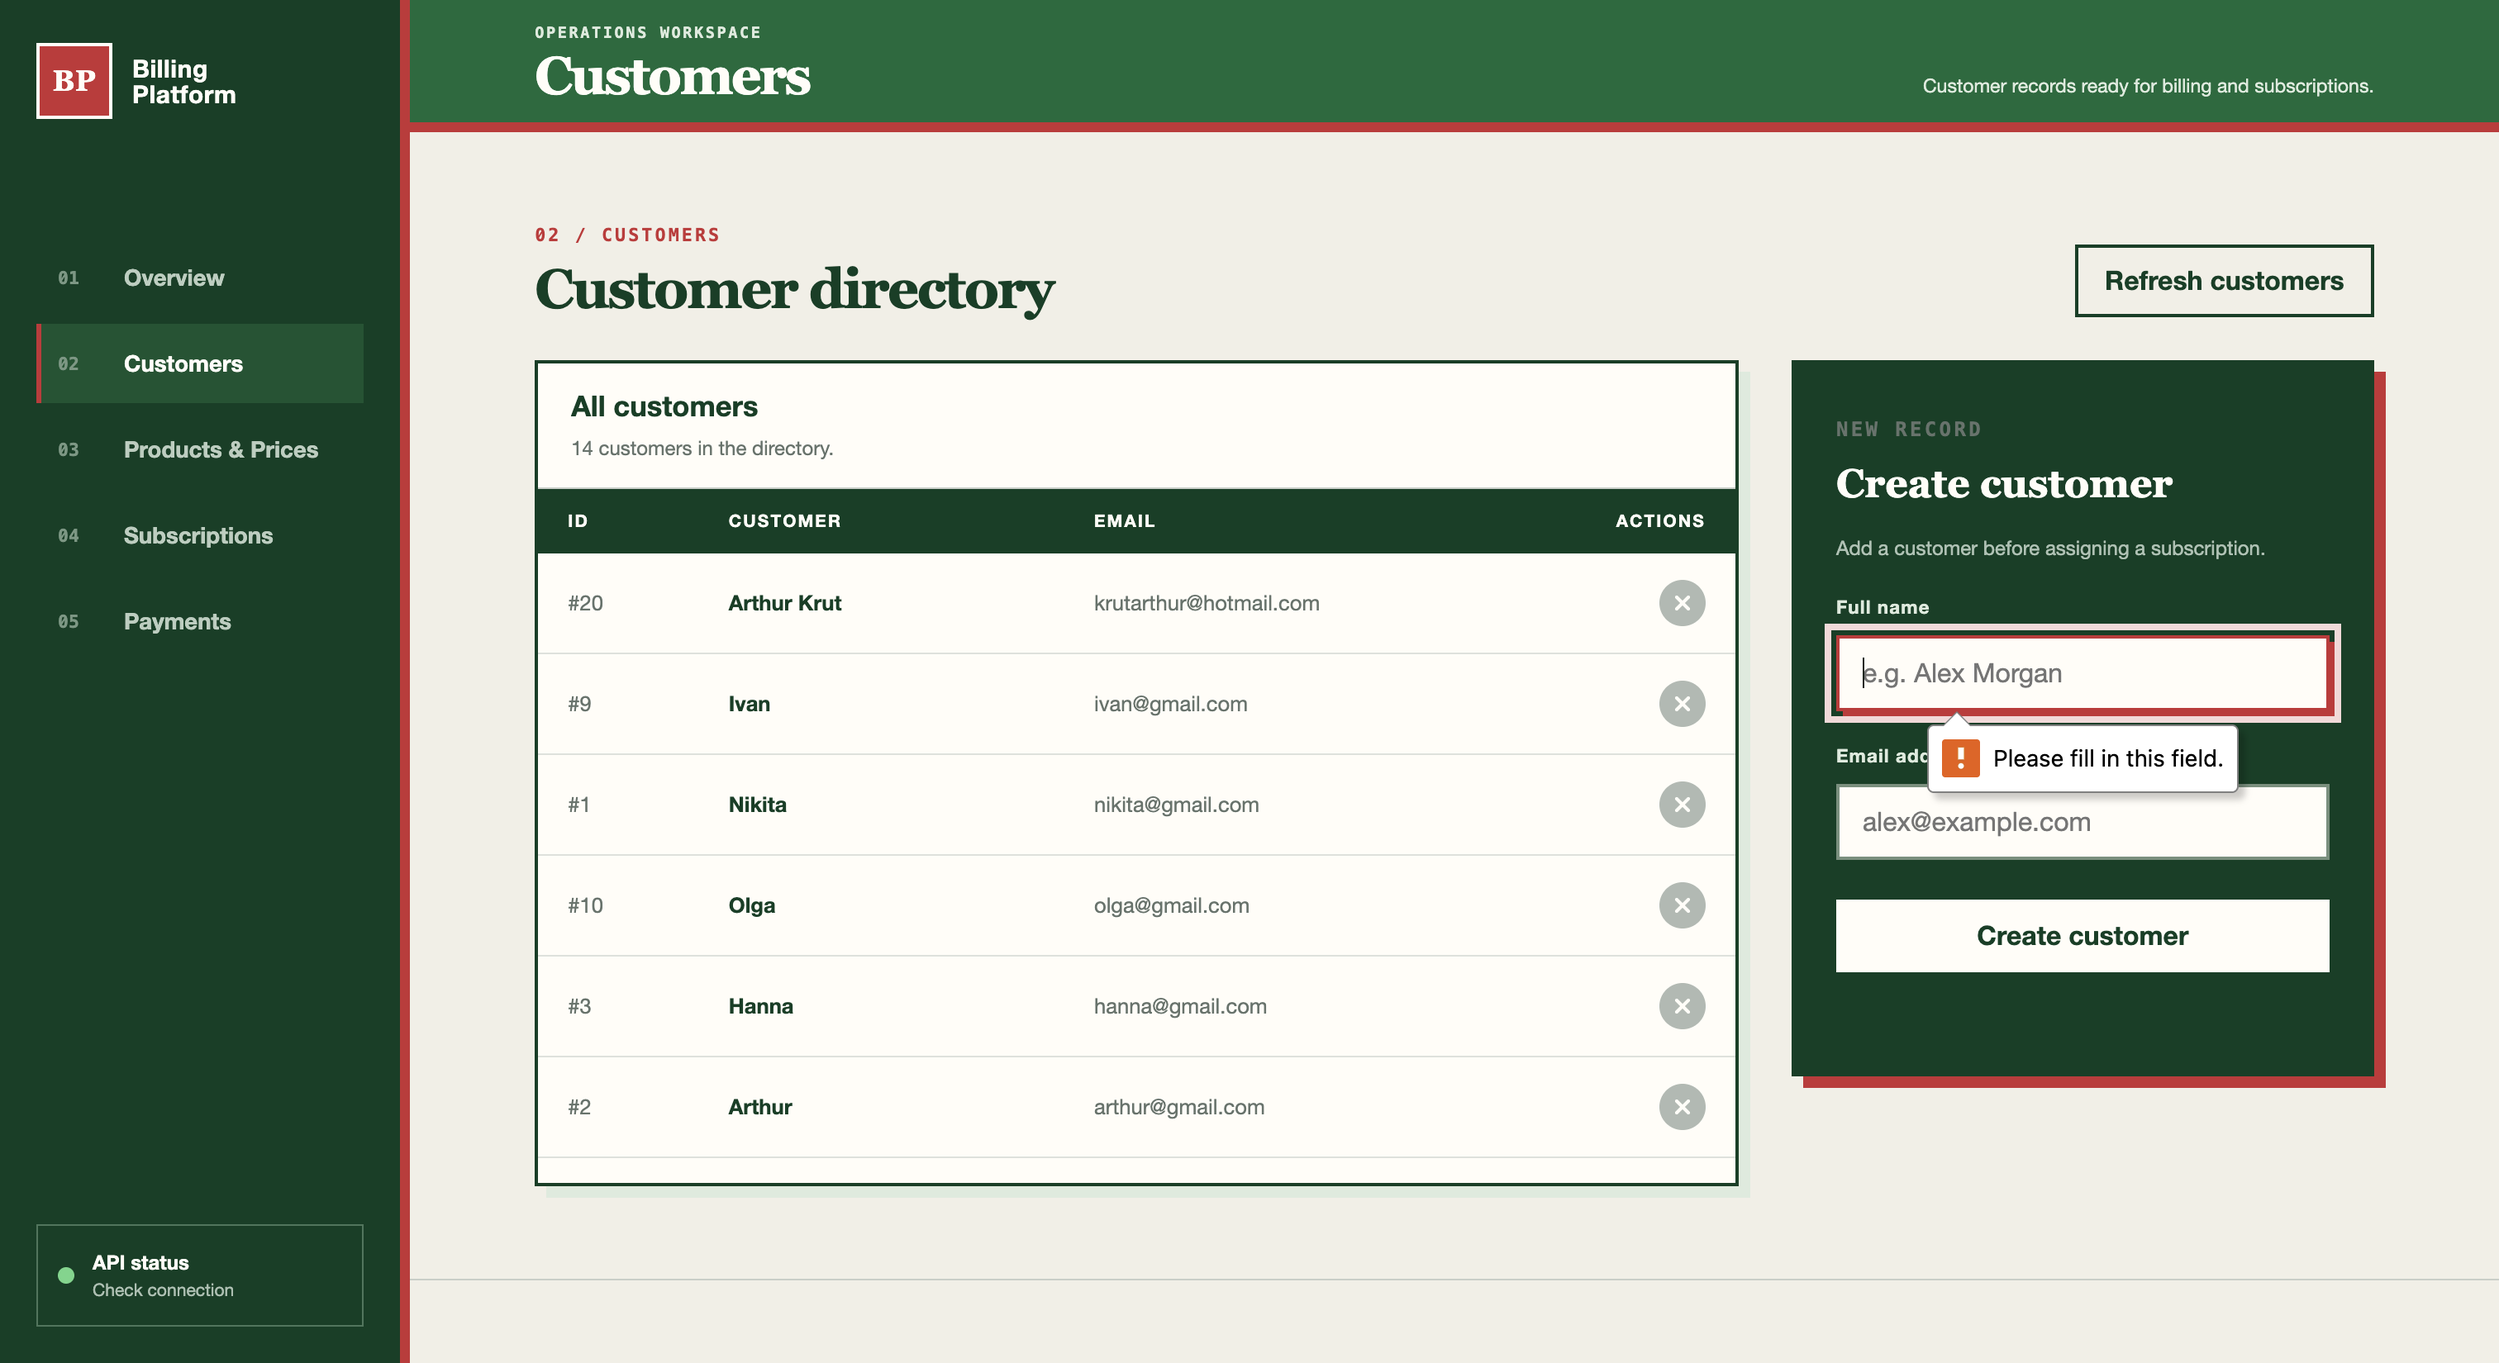
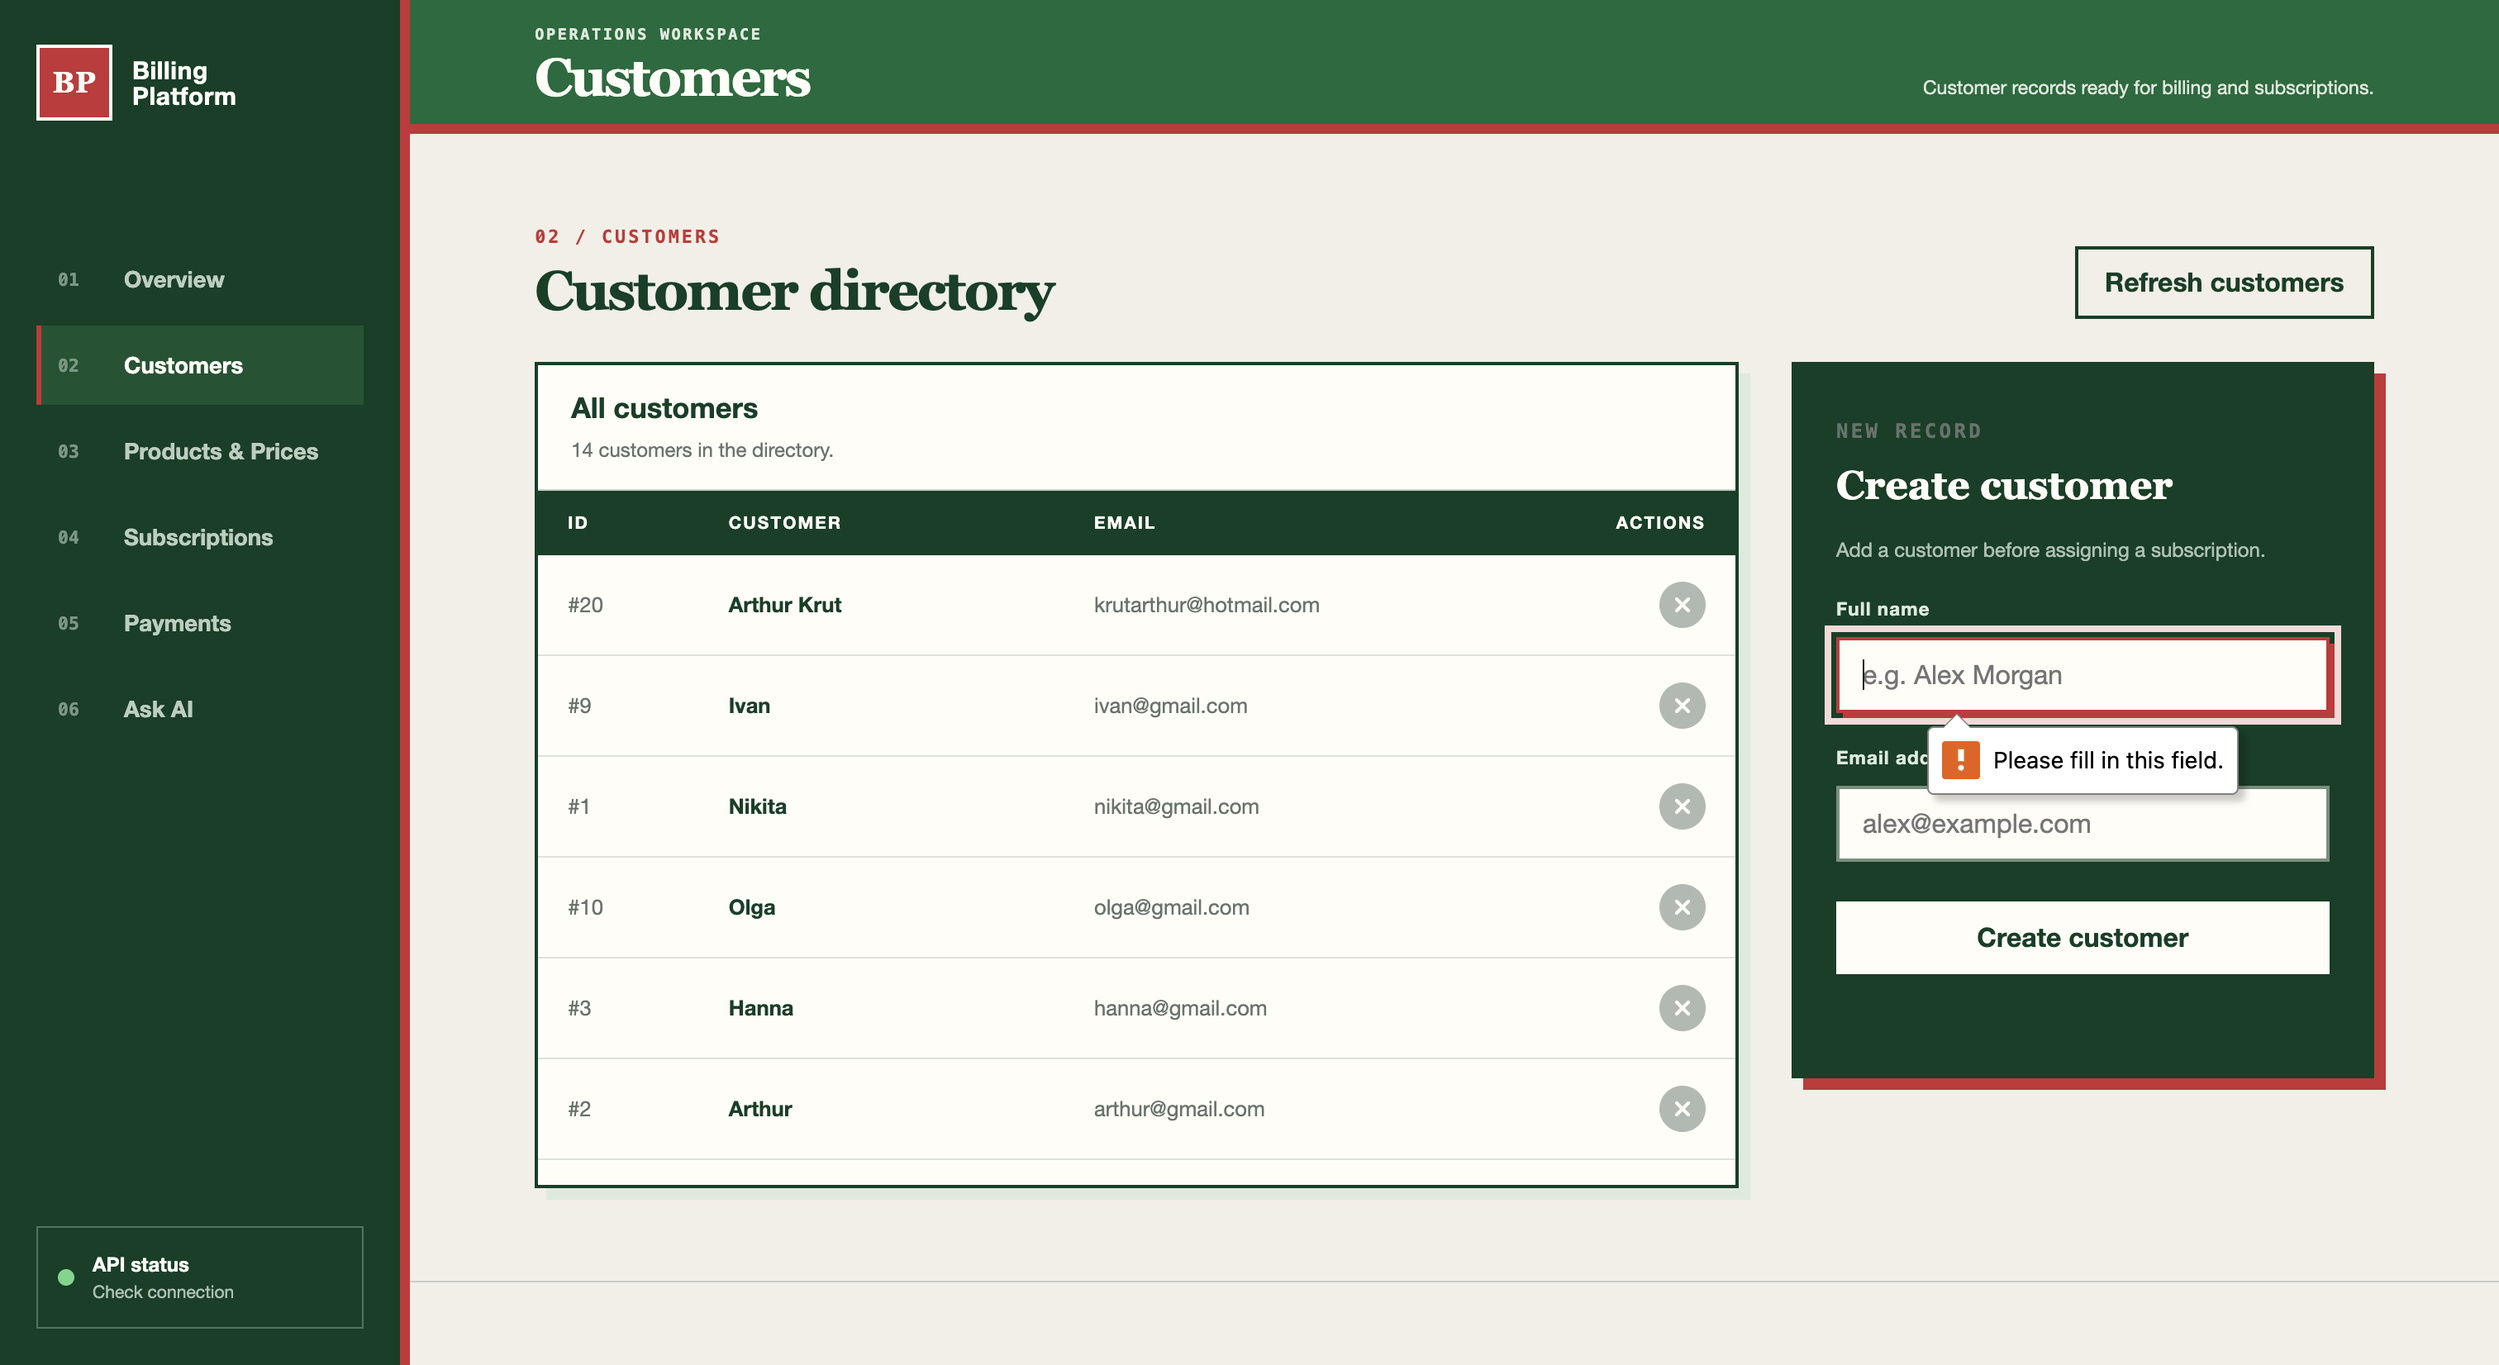
Showcase Billing Platform's AI assistant

diff --git a/projects/index.html b/projects/index.html
@@ -5,7 +5,7 @@
     <meta content="width=device-width, initial-scale=1.0" name="viewport"/>
     <title>Nikita Smiichyk - Projects</title>
     <meta
-        content="Backend and IoT projects by Nikita Smiichyk, including Billing Platform API, UniStow, and TempSafe, with live demos and GitHub repositories."
+        content="Backend, AI integration and IoT projects by Nikita Smiichyk, including Billing Platform with Ask AI, UniStow and TempSafe."
         name="description"/>
     <link href="../favicon.svg?v=20261107-split-n" rel="icon" type="image/svg+xml"/>
     <link href="../favicon.svg?v=20261107-split-n" rel="apple-touch-icon"/>
@@ -17,13 +17,13 @@
 <main class="minimal-layout">
     <section class="minimal-section">
         <h1>Projects</h1>
-        <p class="minimal-lead">Selected backend, API, and IoT projects.</p>
+        <p class="minimal-lead">Selected backend, API, AI integration and IoT projects.</p>
 
         <div class="projects-list">
             <article class="project-entry">
                 <div class="project-heading">
                     <span class="project-number">01</span>
-                    <h2>Billing Platform API</h2>
+                    <h2>Billing Platform</h2>
                 </div>
                 <ul aria-label="Tech stack" class="project-stack" role="list">
                     <li><img alt="Java" height="22" src="../assets/icons/brands/java.svg" title="Java" width="22"/></li>
@@ -48,10 +48,13 @@
                     <li><img alt="Neon" height="22" src="../assets/icons/brands/neon.svg" title="Neon" width="22"/></li>
                     <li><img alt="JavaScript" height="22" src="../assets/icons/brands/javascript.svg" title="JavaScript"
                              width="22"/></li>
+                    <li><img alt="OpenAI Responses API" height="22" src="../assets/icons/ui/braces.svg"
+                             title="OpenAI Responses API" width="22"/></li>
                 </ul>
-                <p class="project-summary">Manages customers, subscriptions and payments through a billing API.</p>
+                <p class="project-summary">A billing platform for customers, subscriptions and payments, with an AI
+                    assistant that explains the project.</p>
                 <p class="project-contribution"><strong>What I built:</strong> Built the backend APIs, subscription
-                    rules and payment-intent workflows.</p>
+                    rules and payment-intent workflows, and integrated Ask AI into the web interface.</p>
                 <h3 class="project-decisions-heading">Key technical decisions</h3>
                 <ul class="project-decisions">
                     <li><strong>Explicit state transitions:</strong> Subscription lifecycle and payment-intent rules.
@@ -59,9 +62,12 @@
                     <li><strong>Validated data:</strong> Input validation, structured errors and database constraints.
                     </li>
                     <li><strong>Versioned schema:</strong> Flyway migrations for PostgreSQL.</li>
+                    <li><strong>AI answers with sources:</strong> OpenAI function calling retrieves relevant GitHub
+                        files, with links to the exact source revisions shown alongside each answer.</li>
                 </ul>
                 <div class="project-links">
                     <a href="https://billing.nikitsya.dev" rel="noreferrer" target="_blank">billing.nikitsya.dev</a>
+                    <a href="https://billing.nikitsya.dev/ask-ai/" rel="noreferrer" target="_blank">Try Ask AI</a>
                     <a href="https://github.com/nikitsya/Billing-Platform-Frontend" rel="noreferrer"
                        target="_blank">Frontend repo</a>
                     <a href="https://github.com/nikitsya/Billing-Platform-API" rel="noreferrer"
@@ -73,52 +79,65 @@
                     <summary>Screenshots</summary>
                     <figure class="project-screenshot">
                         <a aria-label="Open Billing Platform dashboard screenshot at full size"
-                           href="../assets/images/projects/billing-platform/billing-dashboard.png" rel="noreferrer"
+                           href="../assets/images/projects/billing-platform/billing-dashboard.png?v=20261125-ask-ai"
+                           rel="noreferrer"
                            target="_blank">
-                            <img alt="Billing dashboard with customer, product, price and subscription totals."
-                                 decoding="async" height="1650" loading="lazy"
-                                 src="../assets/images/projects/billing-platform/billing-dashboard.png" width="3024"/>
+                            <img alt="Billing dashboard with account totals and six navigation sections, including Ask AI."
+                                 decoding="async" height="1652" loading="lazy"
+                                 src="../assets/images/projects/billing-platform/billing-dashboard.png?v=20261125-ask-ai"
+                                 width="3024"/>
                         </a>
                         <figcaption>1. Billing dashboard</figcaption>
                     </figure>
                     <figure class="project-screenshot">
                         <a aria-label="Open Billing Platform customer directory and validation screenshot at full size"
-                           href="../assets/images/projects/billing-platform/billing-customers-validation.png"
+                           href="../assets/images/projects/billing-platform/billing-customers-validation.png?v=20261125-ask-ai"
                            rel="noreferrer"
                            target="_blank">
                             <img
                                 alt="Customer directory beside the create-customer form, showing validation for a required name."
-                                decoding="async" height="1650" loading="lazy"
-                                src="../assets/images/projects/billing-platform/billing-customers-validation.png"
+                                decoding="async" height="1652" loading="lazy"
+                                src="../assets/images/projects/billing-platform/billing-customers-validation.png?v=20261125-ask-ai"
                                 width="3024"/>
                         </a>
                         <figcaption>2. Customer directory and validation</figcaption>
                     </figure>
                     <figure class="project-screenshot">
                         <a aria-label="Open Billing Platform payment intents screenshot at full size"
-                           href="../assets/images/projects/billing-platform/billing-payment-intents.png"
+                           href="../assets/images/projects/billing-platform/billing-payment-intents.png?v=20261125-ask-ai"
                            rel="noreferrer"
                            target="_blank">
                             <img
                                 alt="Payment creation form and a list of payment intents with amounts, currencies, statuses and confirmation actions."
-                                decoding="async" height="1650" loading="lazy"
-                                src="../assets/images/projects/billing-platform/billing-payment-intents.png"
+                                decoding="async" height="1652" loading="lazy"
+                                src="../assets/images/projects/billing-platform/billing-payment-intents.png?v=20261125-ask-ai"
                                 width="3024"/>
                         </a>
                         <figcaption>3. Payment intents</figcaption>
                     </figure>
                     <figure class="project-screenshot">
-                        <a aria-label="Open Billing Platform payment price selection screenshot at full size"
-                           href="../assets/images/projects/billing-platform/billing-payment-price-selection.png"
-                           rel="noreferrer"
-                           target="_blank">
+                        <a aria-label="Open Billing Platform Ask AI start screen at full size"
+                           href="../assets/images/projects/billing-platform/billing-ask-ai.png"
+                           rel="noreferrer" target="_blank">
                             <img
-                                alt="Payment form with the price selector open, offering a manual amount or a predefined one-off setup fee."
-                                decoding="async" height="1650" loading="lazy"
-                                src="../assets/images/projects/billing-platform/billing-payment-price-selection.png"
+                                alt="Ask AI project assistant with suggested questions about the architecture, billing workflows and implementation."
+                                decoding="async" height="1652" loading="lazy"
+                                src="../assets/images/projects/billing-platform/billing-ask-ai.png"
                                 width="3024"/>
                         </a>
-                        <figcaption>4. One-off payment price selection</figcaption>
+                        <figcaption>4. Ask AI — explore the project</figcaption>
+                    </figure>
+                    <figure class="project-screenshot">
+                        <a aria-label="Open Billing Platform Ask AI answer with source links at full size"
+                           href="../assets/images/projects/billing-platform/billing-ask-ai-sources.png"
+                           rel="noreferrer" target="_blank">
+                            <img
+                                alt="An AI answer explaining project capabilities and limitations, followed by links to relevant backend and frontend files."
+                                decoding="async" height="1652" loading="lazy"
+                                src="../assets/images/projects/billing-platform/billing-ask-ai-sources.png"
+                                width="3024"/>
+                        </a>
+                        <figcaption>5. Ask AI — answer with repository sources</figcaption>
                     </figure>
                 </details>
                 <details class="project-details">
@@ -129,9 +148,14 @@
                         structured API error responses, and database constraints. Schema changes are managed with
                         Flyway,
                         and the backend is deployed on Render with PostgreSQL hosted on Neon.</p>
+                    <p>Ask AI uses the OpenAI Responses API to answer questions about the Java backend, browser
+                        interface and billing workflows. Function calling selects relevant files from both GitHub
+                        repositories, and answers include links pinned to the source commits. The integration supports
+                        follow-up questions, keeps the API key on the server and enforces persistent usage limits in
+                        PostgreSQL.</p>
                     <p class="project-tech"><strong>Tech:</strong> Java, Spring Boot, Spring Data JPA, PostgreSQL,
                         Flyway,
-                        REST API, Docker, Render, Neon, JavaScript</p>
+                        REST API, Docker, Render, Neon, JavaScript, OpenAI Responses API, function calling</p>
                 </details>
             </article>
 

diff --git a/tech-stack/index.html b/tech-stack/index.html
@@ -4,7 +4,7 @@
     <meta charset="UTF-8"/>
     <meta content="width=device-width, initial-scale=1.0" name="viewport"/>
     <title>Nikita Smiichyk - Tech Stack</title>
-    <meta content="Backend, database, web, deployment, tooling, and testing technologies used by Nikita Smiichyk."
+    <meta content="Backend, AI integration, database, web, deployment and testing technologies used by Nikita Smiichyk."
           name="description"/>
     <link href="../favicon.svg?v=20261107-split-n" rel="icon" type="image/svg+xml"/>
     <link href="../favicon.svg?v=20261107-split-n" rel="apple-touch-icon"/>
@@ -60,6 +60,21 @@
                     <li><img alt="" aria-hidden="true" class="stack-icon" height="18"
                              src="../assets/icons/brands/maven.svg"
                              width="18"/><span>Maven</span></li>
+                </ul>
+            </section>
+
+            <section class="stack-row">
+                <h3>AI Integration</h3>
+                <ul class="stack-list">
+                    <li><img alt="" aria-hidden="true" class="stack-icon" height="18"
+                             src="../assets/icons/ui/network.svg"
+                             width="18"/><span>OpenAI Responses API</span></li>
+                    <li><img alt="" aria-hidden="true" class="stack-icon" height="18"
+                             src="../assets/icons/ui/braces.svg"
+                             width="18"/><span>Function Calling</span></li>
+                    <li><img alt="" aria-hidden="true" class="stack-icon" height="18"
+                             src="../assets/icons/ui/file-text.svg"
+                             width="18"/><span>Repository Context Retrieval</span></li>
                 </ul>
             </section>
 

diff --git a/index.html b/index.html
@@ -23,8 +23,8 @@
         </h1>
         <p class="minimal-lead minimal-subtitle">
             I build backend systems in Java and Python, using Spring Boot, FastAPI, and relational databases.
-            My projects include a subscription and payment platform, a campus locker service, and temperature
-            monitoring, with automated testing and Docker deployment.
+            My projects include a subscription and payment platform with an AI project assistant, a campus locker
+            service, and temperature monitoring, with automated testing and Docker deployment.
         </p>
         <p class="featured-project-links">
             <a aria-label="Explore Billing Platform (opens in a new tab)" href="https://billing.nikitsya.dev"
